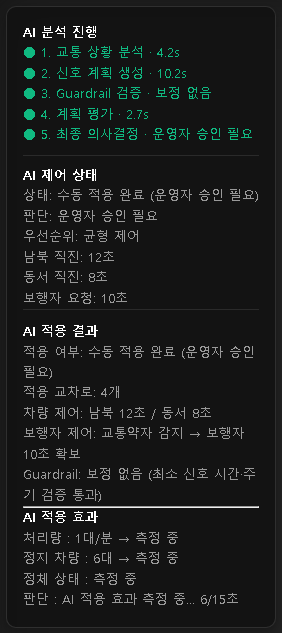
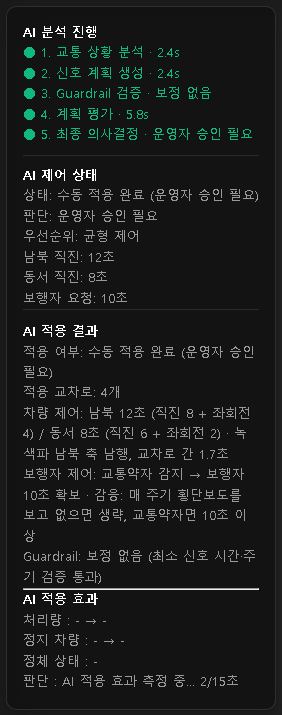
feat: apply AI plans as a real signal system
- Keep the Korean four-phase cycle (70/30 through/left split), green-arrow left lamp,
  protected-permissive left (single lane, no left pocket)
- Green-wave offsets along Agent 1's main congested direction
- Actuated phases after apply: skip/add the pedestrian phase per crosswalk demand
  (>= 10 s for vulnerable users), left phase only with queued left turns, leading left
- README ko/en, decision figure, before/after GIFs (60 s window) and pedestrian screens updated

diff --git a/README.en.md b/README.en.md
@@ -45,21 +45,21 @@ The repository is being turned into an official Upstage demo and tutorial. Two r
 
 ## 📊 Before and after AI
 
-The same seed builds the same state, then **fixed-time signals** and **the plan Solar Pro 4 produced** each run for 30 seconds. The only difference between the two runs is the green times.
+The same seed builds the same state, then **fixed-time signals** and **the plan Solar Pro 4 produced** each run for 60 seconds (the GIFs show every second frame). The only difference between the two runs is the signals.
 
-| Before AI (fixed signal) | After AI (12 s / 8 s / 0 s applied) |
+| Before AI (fixed signal) | After AI (NS 12 s / EW 8 s / pedestrian 0 s) |
 |----------|---------|
 | <img src="docs/flowlight_before_ai.gif" width="100%"> | <img src="docs/flowlight_after_ai.gif" width="100%"> |
 
-| Metric (after 30 s) | Fixed Signal | FlowLight AI | Change |
+| Metric (60 s window) | Fixed Signal | FlowLight AI | Change |
 |:--------|-------------:|-------------:|------------:|
-| 🚗 Stopped vehicles | **34** | **21** | **⬇ 38.2%** |
-| 🚦 Throughput (last minute) | **106** | **123** | **⬆ 16.0%** |
-| 📈 Congestion index | **0.93** | **0.73** | **⬇ 21.1%** |
+| 🚦 Throughput (last minute, at 60 s) | **121** | **131** | **⬆ 8.3%** |
+| 🚗 Stopped vehicles (60 s mean) | **33.9** | **31.3** | **⬇ 7.7%** |
+| 📈 Congestion index (60 s mean) | **0.91** | **0.92** | no change |
 
-- Setup: manual mode, 4x4 grid, 5 veh/s, seed 20260702. At the split (120 s warm-up): 49 cars, 33 stopped, congestion 0.94.
-- That state was sent to the real Solar Pro 4: plan 12 s north-south / 8 s east-west / 0 s pedestrian, no Guardrail correction, score 88, final decision auto apply.
-- 30-second means: stopped 33.4 → 28.6, congestion 0.915 → 0.857. Instantaneous values swing with the signal cycle, so the means are listed too.
+- Setup: manual mode, 4x4 grid, 5 veh/s, seed 20260702. At the split (120 s warm-up): 49 cars, 33 stopped, congestion 0.94. The network is saturated, so the congestion index stays around 0.9 either way.
+- That state was sent to the real Solar Pro 4: Agent 1 main direction "north-south", plan 12 s north-south / 8 s east-west / 0 s pedestrian, no Guardrail correction, score 88, final decision auto apply.
+- The plan is applied the way a real signal system would: each direction's green is split 70 % through / 30 % left to keep the four-phase cycle, a north-south green wave (1.7 s offset per block) is set, and every cycle the left-turn and pedestrian phases are added or skipped from actual demand. This gives a smaller gain than a naive two-phase apply did (stopped 34 → 21 back then), but a result closer to a real intersection.
 - In manual mode, applying a plan normally halves the inflow for 120 s. That relief was switched off right after applying so both runs saw identical demand.
 - The method matches the built-in A/B check under Advanced settings: same seed, fixed 1/30 s step, same warm-up, then branch.
 
@@ -153,10 +153,16 @@ These rules override the LLM's decision. They mirror the auto-apply precondition
 3. Vulnerable pedestrians present but pedestrian green under 10 s → `재계획 필요` (re-plan)
 4. No pedestrians · 20 or more stopped cars · congestion 0.7 or higher · pedestrian green 0 s → `자동 적용` (auto apply)
 
-## 🚶 How the pedestrian green is applied
-The plan's pedestrian green of N seconds becomes a **pedestrian-only phase** in the simulator. One cycle runs north-south vehicle green → east-west vehicle green → every vehicle stopped and every crosswalk green for N seconds.
-When N is 0 the phase does not exist and the whole cycle goes to vehicles. So "skip the pedestrian signal when nobody waits" and "extend it for vulnerable users" are visible on screen, not only in the numbers.
-Before an AI plan is applied, the default signal still shows pedestrian green alongside the cross-direction vehicle green, as before.
+## 🚦 The plan is applied like a real signal system
+The AI plan (NS N s / EW M s / pedestrian P s) is a budget; the simulator runs it the way a real intersection would.
+- **Korean four-phase cycle kept**: each direction's green is split 70 % through / 30 % left. The left-turn lamp is the green arrow of a four-lamp signal head. With a single lane per direction there is no left-turn pocket, so left turns are protected-permissive (permitted during the through green, protected during the arrow).
+- **Green wave**: intersection start times are offset along the main congested direction reported by Agent 1. Offset = block length ÷ top speed. No offset with a single intersection.
+- **Actuated phases (only after an AI plan is applied)**: every cycle, each intersection looks at its own crosswalks and approaches.
+  - Nobody at the crosswalk → the pedestrian phase is skipped that cycle and the time goes to vehicles. Somebody waiting → the planned length (at least 6 s), and at least 10 s when a child, elderly or wheelchair user is there. Even a 0 s plan turns into a phase once someone arrives.
+  - Two or more cars waiting to turn left → a left-turn phase is added; if the lead car is a left-turner blocking the lane, the arrow comes first (leading left). No left demand → no left phase.
+- **Pedestrian-only phase**: every vehicle stops and every crosswalk turns green. Right turns are barred while the pedestrian signal is green, and a right turn on red yields to pedestrians.
+
+Before a plan is applied, the default signal is a fixed timetable (four phases, pedestrian green alongside the cross-direction vehicle green).
 
 ## 📡 SSE streaming
 `POST /api/agent/stream` sends these events in order.
@@ -173,7 +179,7 @@ Before an AI plan is applied, the default signal still shows pedestrian green al
 - **Demand input modes**
   - Manual: a network-wide veh/s slider spawns cars at random entry edges
   - Real-data profile: 3x3 grid, Poisson arrivals on the N/S/E/W entry edges from the backend profile, hour picker with auto advance, and a per-approach table of demand, arrival rate, entered, lost and queued vehicles
-- The plan's pedestrian green is applied as a pedestrian-only phase (skipped at 0 s). The after-apply effect is averaged over 15 simulated seconds, so a higher speed multiplier shows it sooner
+- The AI plan is applied with the four-phase cycle, a green wave and actuated phases (see above). The after-apply effect is averaged over 15 simulated seconds, so a higher speed multiplier shows it sooner
 - Five-step AI progress panel with per-step timing, the agents' real output, Guardrail before/after
 - A five-step usage guide appears on first launch and can be reopened from the sidebar
 - Intersection type, data export, and the built-in Webster optimiser with a seeded A/B harness (independent of the LLM) live under the collapsed "Advanced settings" section
@@ -201,8 +207,8 @@ Measured the same way on the previous version: waiting vehicles 18 → 13 (-27.8
 | Legacy input, `json_object` | 3/3 runs 200 · `stop`, 12/8/0, score 88, auto apply, 15.4 s total |
 | Legacy input, `json_schema` | 3/3 runs 200 · `stop`, schema compliant, same result, 15.1 s total |
 | Input with per-approach state, `json_schema` | main direction "north-south", plan 14/6/0 → Guardrail corrected to 12/8/0, score 88, auto apply, 24.6 s total |
-| Run from the profile-mode UI (9 cars, 2 queued on N, saturation 1.2) | main direction "N", plan 12/8/0, score 82, operator approval → applied manually, congestion index 0.61 → 0.35 |
-| Manual mode 4x4, 49 cars, 33 stopped (the split state of the before/after GIFs) | plan 12/8/0, no Guardrail correction, score 88, auto apply → stopped 34 → 21 after 30 s |
+| Run from the profile-mode UI (9 cars, 2 queued on N, saturation 1.2) | main direction "N", plan 12/8/0, score 82, operator approval → applied manually, congestion index 0.61 → 0.35 (measured with the earlier two-phase apply) |
+| Manual mode 4x4, 49 cars, 33 stopped (the split state of the before/after GIFs) | main direction "north-south", plan 12/8/0, no Guardrail correction, score 88, auto apply → applied as a real signal system, throughput 121 → 131 after 60 s |
 | Manual mode 4x4, cycle 30 s, 18 cars, 2 pedestrians at the crosswalk including an elderly person | Agent 1 flags a vulnerable user, plan 12/8/10 ("one vulnerable pedestrian, so 10 s for crossing speed"), no Guardrail correction, score 82, operator approval → 10 s pedestrian-only phase after applying |
 
 Reasoning stayed off (`reasoning_effort` not sent, 0 reasoning tokens). Response times depend on the network.
@@ -421,7 +427,7 @@ The `summary` / `explanation` / `reason` returned by the agents and the Guardrai
 
 ## With vulnerable pedestrians: the pedestrian-only phase
 
-A real run analysed while an elderly person was waiting at the crosswalk. Agent 1 flagged a vulnerable user, and Agent 2 returned 12/8/10 with the reasoning "one vulnerable pedestrian, so 10 seconds for crossing speed". After applying, a phase appears in which every car stops and every crosswalk is green for 10 seconds. With nobody at the crosswalk the same phase comes back as 0 s and disappears.
+A real run analysed while an elderly person was waiting at the crosswalk. Agent 1 flagged a vulnerable user, and Agent 2 returned 12/8/10 with the reasoning "one vulnerable pedestrian, so 10 seconds for crossing speed". After applying, a phase appears in which every car stops and every crosswalk is green for 10 seconds. From then on the actuated signal checks the crosswalks every cycle: it skips the phase at an intersection where nobody waits and brings the 10 seconds back when a vulnerable user arrives.
 
 | Report: vulnerable-user detection and plan reasoning | Applied-result panel |
 |---|---|
@@ -458,8 +464,9 @@ Problem statement, agent design, architecture, experiment results and retrospect
 # ⚠ Known limitations
 
 - The simulator is a pixel-scale custom implementation. Ratios such as the saturation flow (1800 veh/h/lane) match reality, but absolute speeds and distances do not.
-- After applying a plan the real cycle is vehicle greens + pedestrian phase + amber and all-red (3 s per direction, 1 s after the pedestrian phase), so it is longer than the input `cycle_sec`. Pedestrians who arrive after a 0 s pedestrian green was applied wait until the next AI analysis.
-- The AI plan carries no protected left-turn phase, so after applying it left turns become permissive during the through green.
+- The time axis is compressed: cycles of 20 to 30 s (real ones are 100 to 180 s), 2 s amber, 1.7 s green-wave offset per block. Ratios are realistic, absolute values are not. After applying a plan the real cycle is vehicle greens + left-turn and pedestrian phases + amber and all-red, so it is longer than the input `cycle_sec`.
+- One lane per direction, so no left-turn pocket. Left turns are protected-permissive and the actuated left phase only appears with two or more cars waiting. A protected-only left (no left during through green) gridlocks this layout and was rejected.
+- When actuation makes cycle lengths differ between intersections, the green-wave offsets drift. Per-intersection plans are on the roadmap.
 - In manual mode, applying an AI plan still halves the spawn rate for 120 s as a relief measure. This is disabled in profile mode.
 - The sample data is a **synthetic example** that follows the column layout of the real dataset. Steps for swapping in real data are in `data/README.md`.
 - Even real peak-hour demand produces modest queues on a single 3x3 intersection. A congestion multiplier (`demo_scale`) and turn ratios (`turn_ratio`) are not implemented yet.
